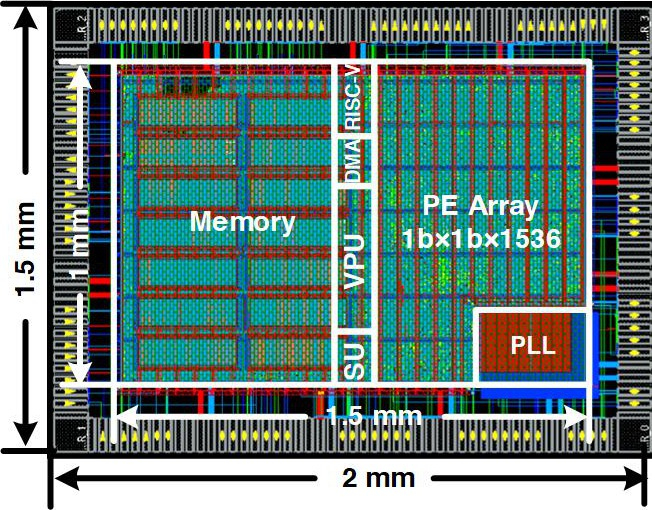
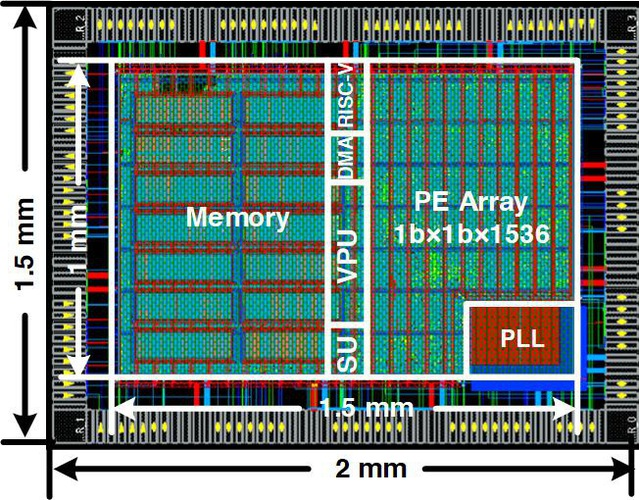
5

Changed region(s): [[0.125, 0.0, 1.0, 0.99], [0.5312, 0.93, 0.6562, 0.96], [0.0938, 0.24, 0.125, 0.27]]

diff --git a/assets/css/main.scss b/assets/css/main.scss
@@ -87,50 +87,6 @@
 
 }
 
-.chip-gallery {
-    display: grid;
-    grid-template-columns: 1fr;
-    grid-gap: 2em;
-    padding: 1em 0 2em 0;
-
-    @include breakpoint($medium) {
-        grid-template-columns: repeat(2, 1fr);
-    }
-
-    .chip-card-image {
-        display: flex;
-        align-items: center;
-        justify-content: center;
-        height: 240px;
-        padding: .6em;
-        background-color: #fff;
-        box-shadow: 3px 3px 6px #888;
-
-        img {
-            max-width: 100%;
-            max-height: 100%;
-            object-fit: contain;
-        }
-    }
-
-    .chip-card-caption {
-        margin-top: .9em;
-        text-align: center;
-        font-size: .85em;
-        line-height: 1.5;
-
-        strong {
-            display: block;
-            font-size: 1.1em;
-        }
-
-        span {
-            display: block;
-            color: #6f6f6f;
-        }
-    }
-}
-
 $scroll_offset : 2em;
 h1:before, .anchor:before { 
     content: ''; 

diff --git a/_pages/includes/chips.md b/_pages/includes/chips.md
@@ -1,22 +1,22 @@
 # Chip Gallery
 
-<div class='chip-gallery'>
-<div class='chip-card'>
-<div class='chip-card-image'><img src='images/chip-vcma-mram-28nm.jpg' alt="28 nm VCMA-MTJ MRAM macro with configurable pulse generator and sensing amplifier"></div>
-<div class='chip-card-caption'>
-<strong>28 nm VCMA-MTJ MRAM</strong>
-<span>96 Kb macro, 8-bit I/O, 5 ns read, 148 fJ/bit</span>
-<span>Probabilistic spin generation for in-memory Ising machines</span>
-<span>IEDM'25</span>
+<div style="display:flex;flex-wrap:wrap;gap:1.6em;align-items:flex-start;padding:.6em 0 1.6em 0;">
+<div style="flex:1 1 300px;min-width:0;">
+<div style="background:#fff;border:1px solid #efefef;box-shadow:3px 3px 6px #888;padding:.5em;"><img src='images/chip-vcma-mram-28nm.jpg' alt="28 nm VCMA-MTJ MRAM macro with configurable pulse generator and sensing amplifier" style="display:block;width:100%;height:auto;"></div>
+<div style="text-align:center;font-size:.82em;line-height:1.55;margin-top:.8em;">
+<strong style="display:block;font-size:1.12em;">28 nm VCMA-MTJ MRAM</strong>
+<span style="display:block;color:#6f6f6f;">96 Kb macro, 8-bit I/O, 5 ns read, 148 fJ/bit</span>
+<span style="display:block;color:#6f6f6f;">Probabilistic spin generation for in-memory Ising machines</span>
+<span style="display:block;color:#6f6f6f;">IEDM'25</span>
 </div>
 </div>
-<div class='chip-card'>
-<div class='chip-card-image'><img src='images/chip-bitstack-28nm.jpg' alt="28 nm BitStack AI accelerator die layout with PE array, memory, RISC-V core and PLL"></div>
-<div class='chip-card-caption'>
-<strong>28 nm AI Accelerator (BitStack)</strong>
-<span>2 &times; 1.5 mm&sup2;, 256 KB SRAM, 1 GHz, 0.6 W</span>
-<span>Adaptive-bitwidth inference for CNNs, LLMs and ViTs</span>
-<span>Submitted</span>
+<div style="flex:1 1 300px;min-width:0;">
+<div style="background:#fff;border:1px solid #efefef;box-shadow:3px 3px 6px #888;padding:.5em;"><img src='images/chip-bitstack-28nm.jpg' alt="28 nm BitStack AI accelerator die layout with PE array, memory, RISC-V core and PLL" style="display:block;width:100%;height:auto;"></div>
+<div style="text-align:center;font-size:.82em;line-height:1.55;margin-top:.8em;">
+<strong style="display:block;font-size:1.12em;">28 nm AI Accelerator (BitStack)</strong>
+<span style="display:block;color:#6f6f6f;">2 &times; 1.5 mm&sup2;, 256 KB SRAM, 1 GHz, 0.6 W</span>
+<span style="display:block;color:#6f6f6f;">Adaptive-bitwidth inference for CNNs, LLMs and ViTs</span>
+<span style="display:block;color:#6f6f6f;">Submitted</span>
 </div>
 </div>
 </div>

diff --git a/_pages/about.md b/_pages/about.md
@@ -13,11 +13,11 @@ redirect_from:
 
 {% include_relative includes/research.md %}
 
+{% include_relative includes/chips.md %}
+
 {% include_relative includes/news.md %}
 
 {% include_relative includes/pub.md %}
-
-{% include_relative includes/chips.md %}
 
 {% include_relative includes/engineering.md %}
 
